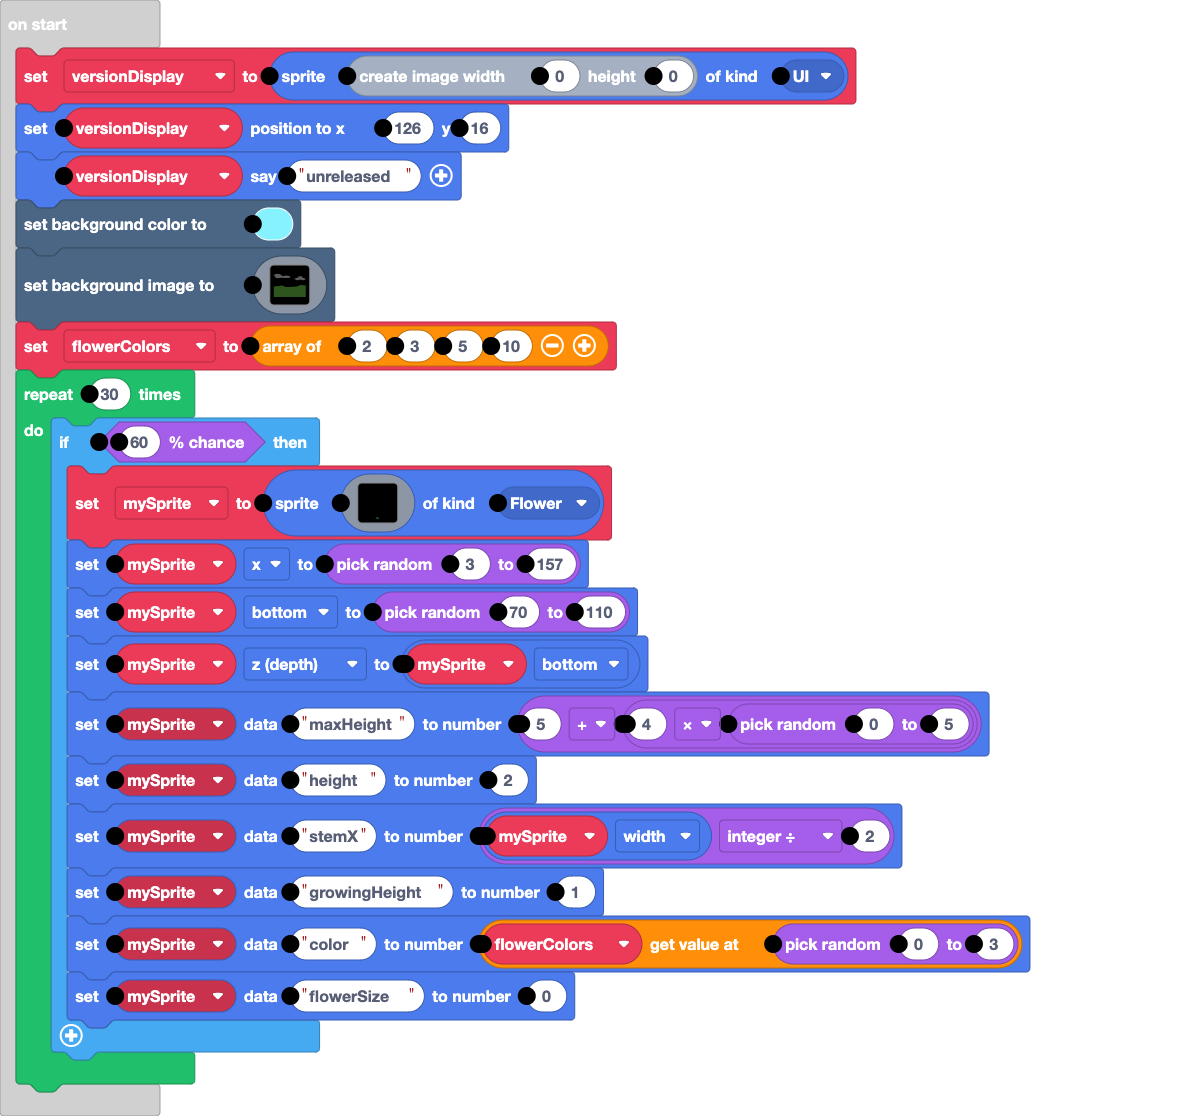
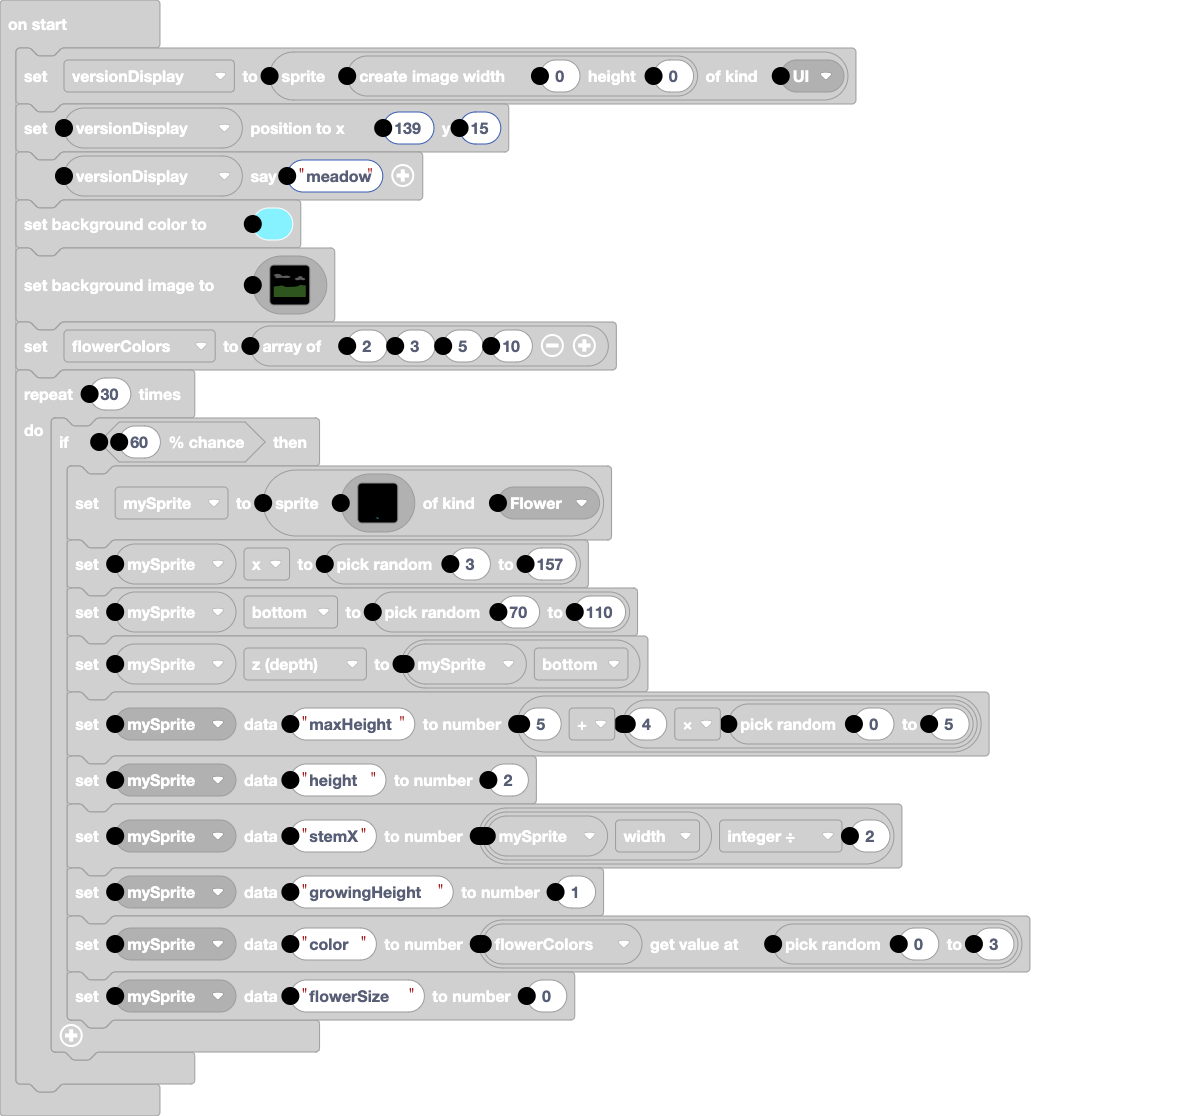
Change message (testing releases more)

diff --git a/main.ts b/main.ts
@@ -63,8 +63,8 @@ function growingStep (plant: Sprite) {
 }
 let mySprite: Sprite = null
 let versionDisplay = sprites.create(image.create(0, 0), SpriteKind.UI)
-versionDisplay.setPosition(126, 16)
-versionDisplay.say("unreleased")
+versionDisplay.setPosition(139, 15)
+versionDisplay.say("meadow")
 scene.setBackgroundColor(9)
 scene.setBackgroundImage(img`
 . . . . . . . . . . . . . . . . . . . . . . . . . . . . . . . . . . . . . . . . . . . . . . . . . . . . . . . . . . . . . . . . . . . . . . . . . . . . . . . . . . . . . . . . . . . . . . . . . . . . . . . . . . . . . . . . . . . . . . . . . . . . . . . . . . . . . . . . . . . . . . . . . . . . . . . . . . . . . . . . 
